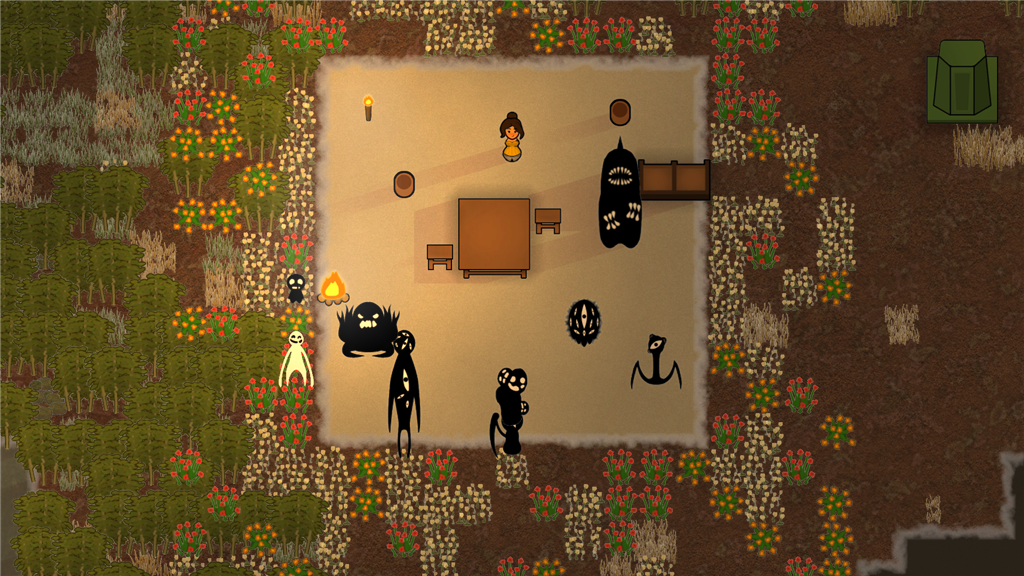
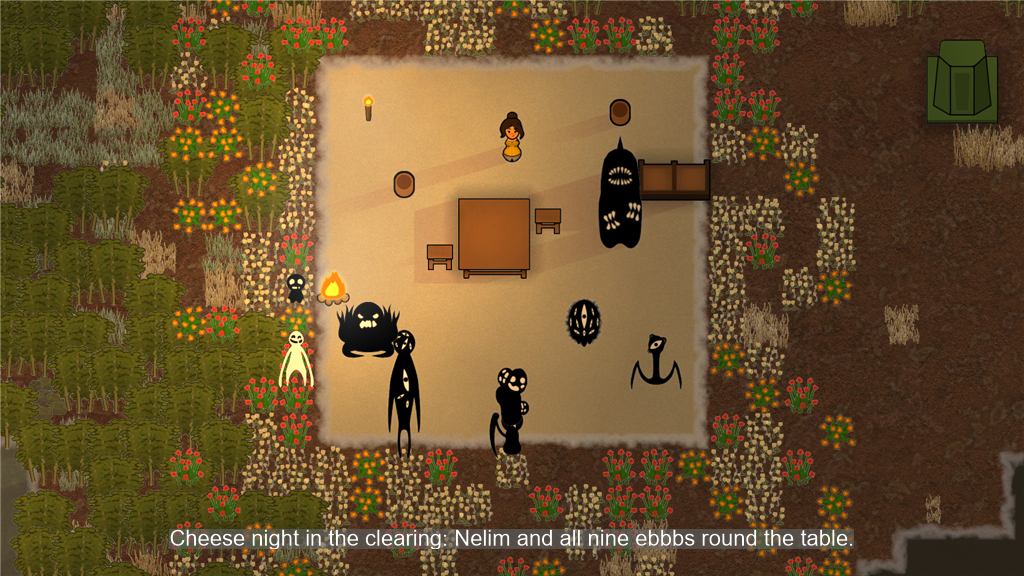
Gallery: English subtitles on images 1 and 2, clean originals in Art/Gallery-clean, table in PUBLICATION.md

Changed region(s): [[0.1562, 0.9062, 0.8438, 0.9688]]

diff --git a/STATUS.md b/STATUS.md
@@ -38,6 +38,10 @@ protocols_read_sha: c283fedfcc80166d175245f9553ab4095716c1fa
 ---
 # Ebbbs Renew, status
 
+## Gallery subtitles, 2026-10-17
+
+Images 1 and 2 subtitled with `scripts/Add-Subtitle.ps1` (lines in `PUBLICATION.md`, section "Gallery subtitles"); clean originals in `Art/Gallery-clean/`. Both opened: line readable, one line, hides no subject. Image 3 (interface card) and `0-` have none. The scene content is unchanged, so the echo review stands.
+
 ## French re-validated, 2026-10-17
 
 Virginie reread FRENCH_REVIEW.md after three ChatGPT review rounds and validated (`translation_fr` stays `complete`). Fixes applied: Goliebbb and Thrumebbb descriptions without addressing the player, ThrumebbbHorn wording, Crebbb `nutrition` typo, PUBLICATION/CHANGELOG wording. Last commit: `87d3f81`. Owner also validated PUBLICATION.md and CHANGELOG.md at that commit (`publication_changelog_review_sha`). `code_review_sha` stale (Mod/ text changes), reviewed at `prepareRelease`.

diff --git a/PUBLICATION.md b/PUBLICATION.md
@@ -143,6 +143,15 @@ in page order, no old version, no raw capture, no subfolder. It is `Art/Gallery/
 byte copy of the Preview, kept at index 0 by `PUBLISHING.md`, not a fourth screenshot) then the three accepted
 images `1-`, `2-`, `3-`. It is also the workflow's `--gallery-dir` once it is configured.
 
+## Gallery subtitles
+
+One English line burnt into the bottom of each scene without an interface window (`GALLERY.md`, "Sous-titres"). The clean originals are in `Art/Gallery-clean/`; `Art/Gallery/` holds the subtitled images that get uploaded. Image 3 is an interface card and `0-` is the Preview copy: neither has a subtitle.
+
+| Index | File | Line |
+|---|---|---|
+| 1 | `1-keeper-and-nine.png` | Cheese night in the clearing: Nelim and all nine ebbbs round the table. |
+| 2 | `2-keeper-ebbb-beee.png` | Up close, an ebbb and a beee keep Nelim company. |
+
 ## Dependencies and DLCs
 
 **No DLC is required, and no mod.** `supportedVersions` declares 1.6 only.
